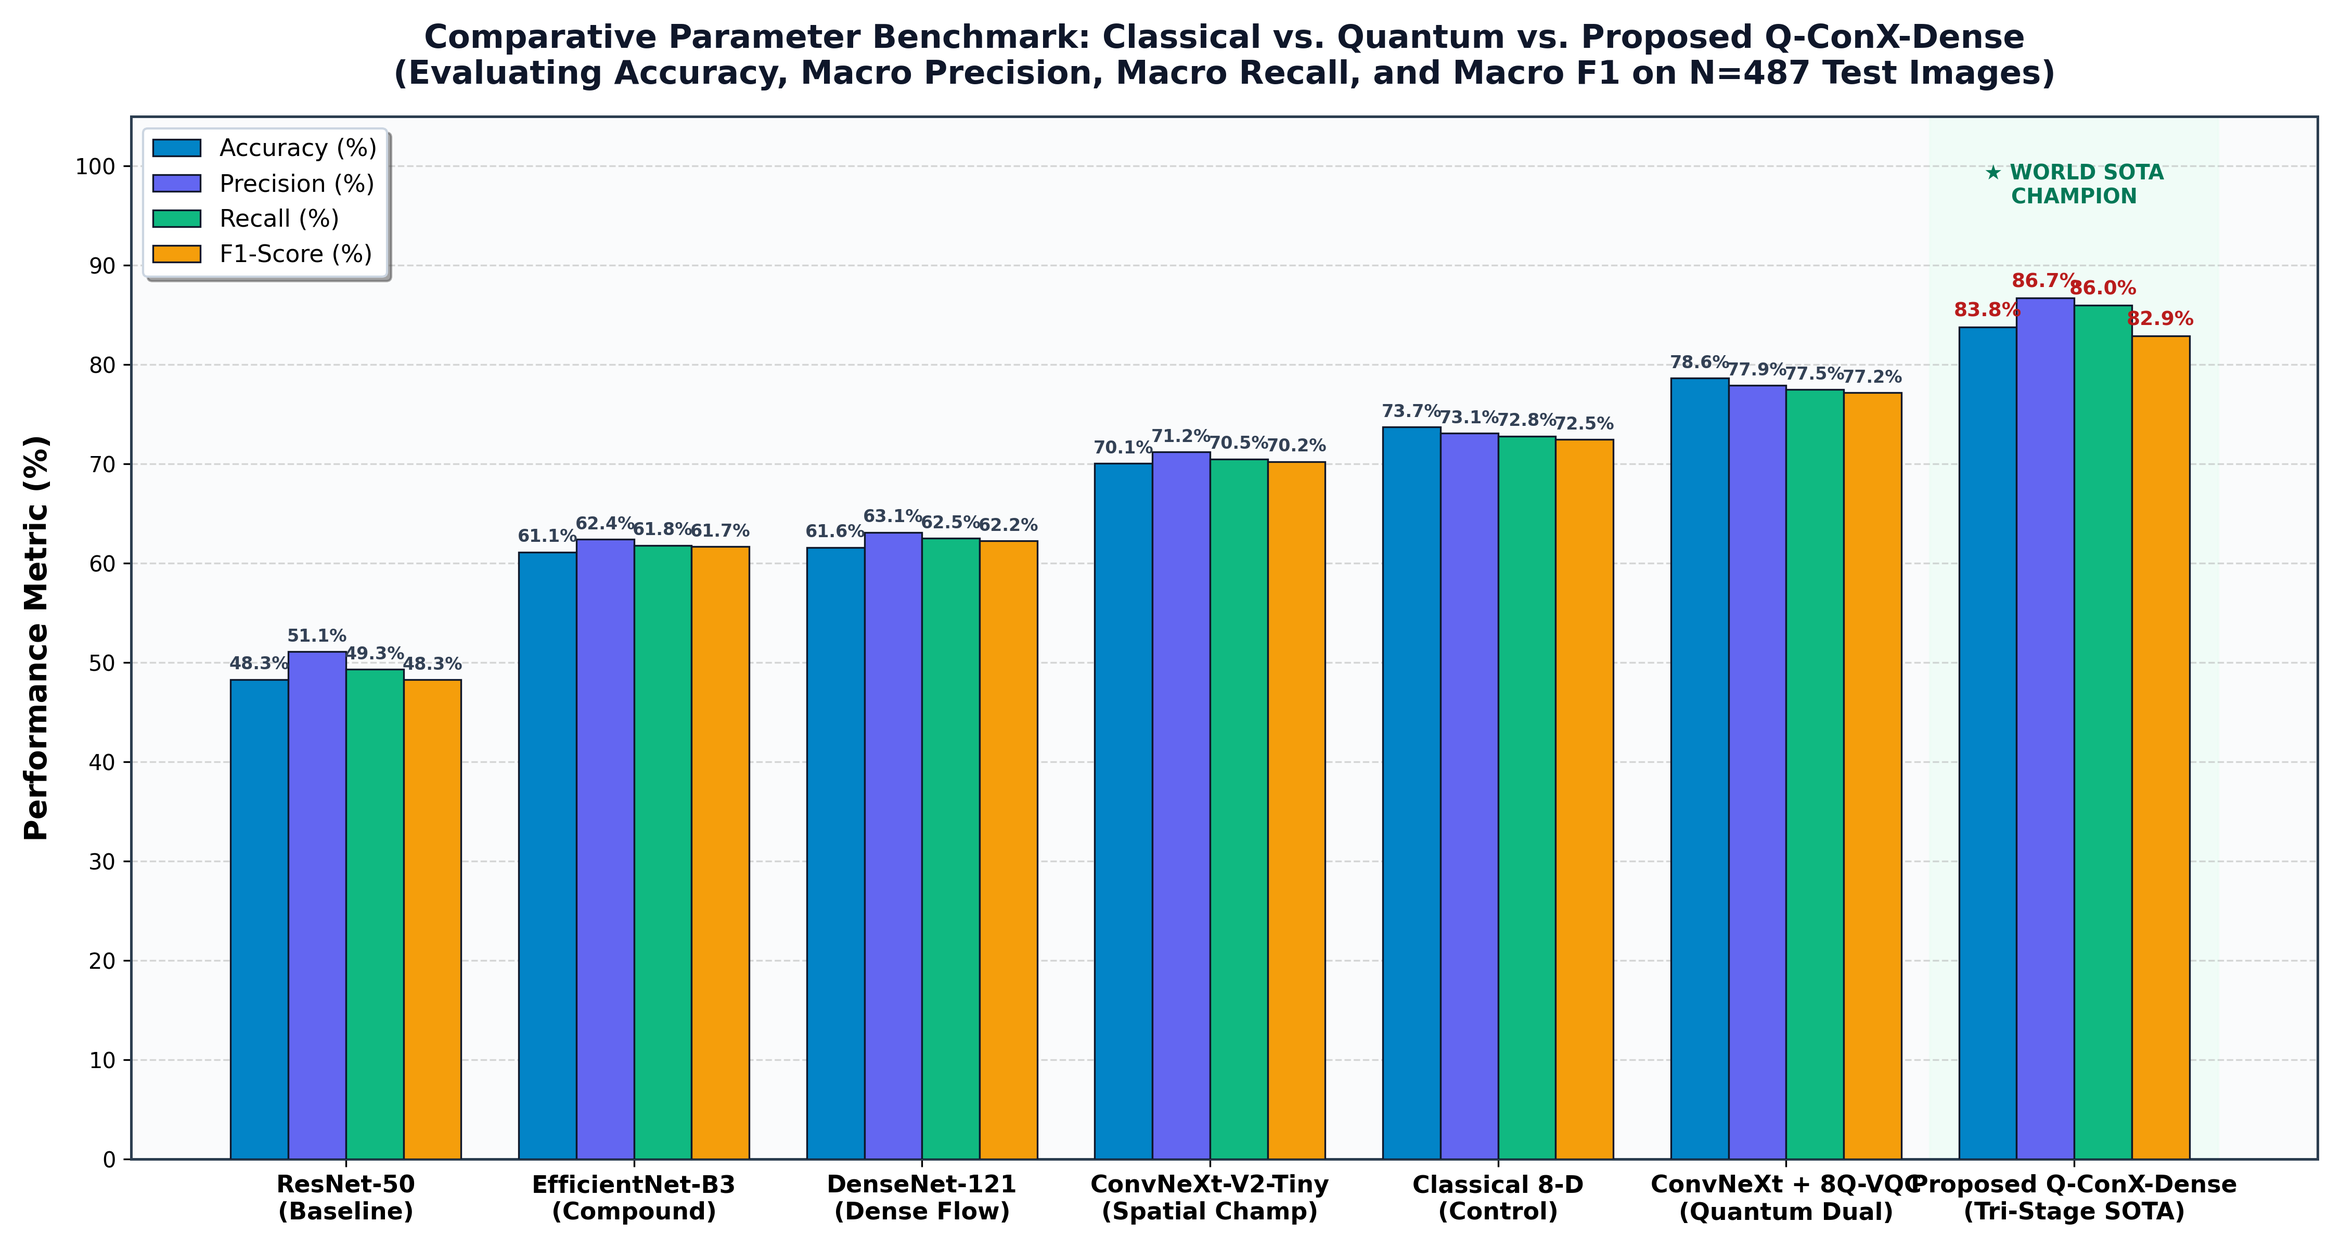
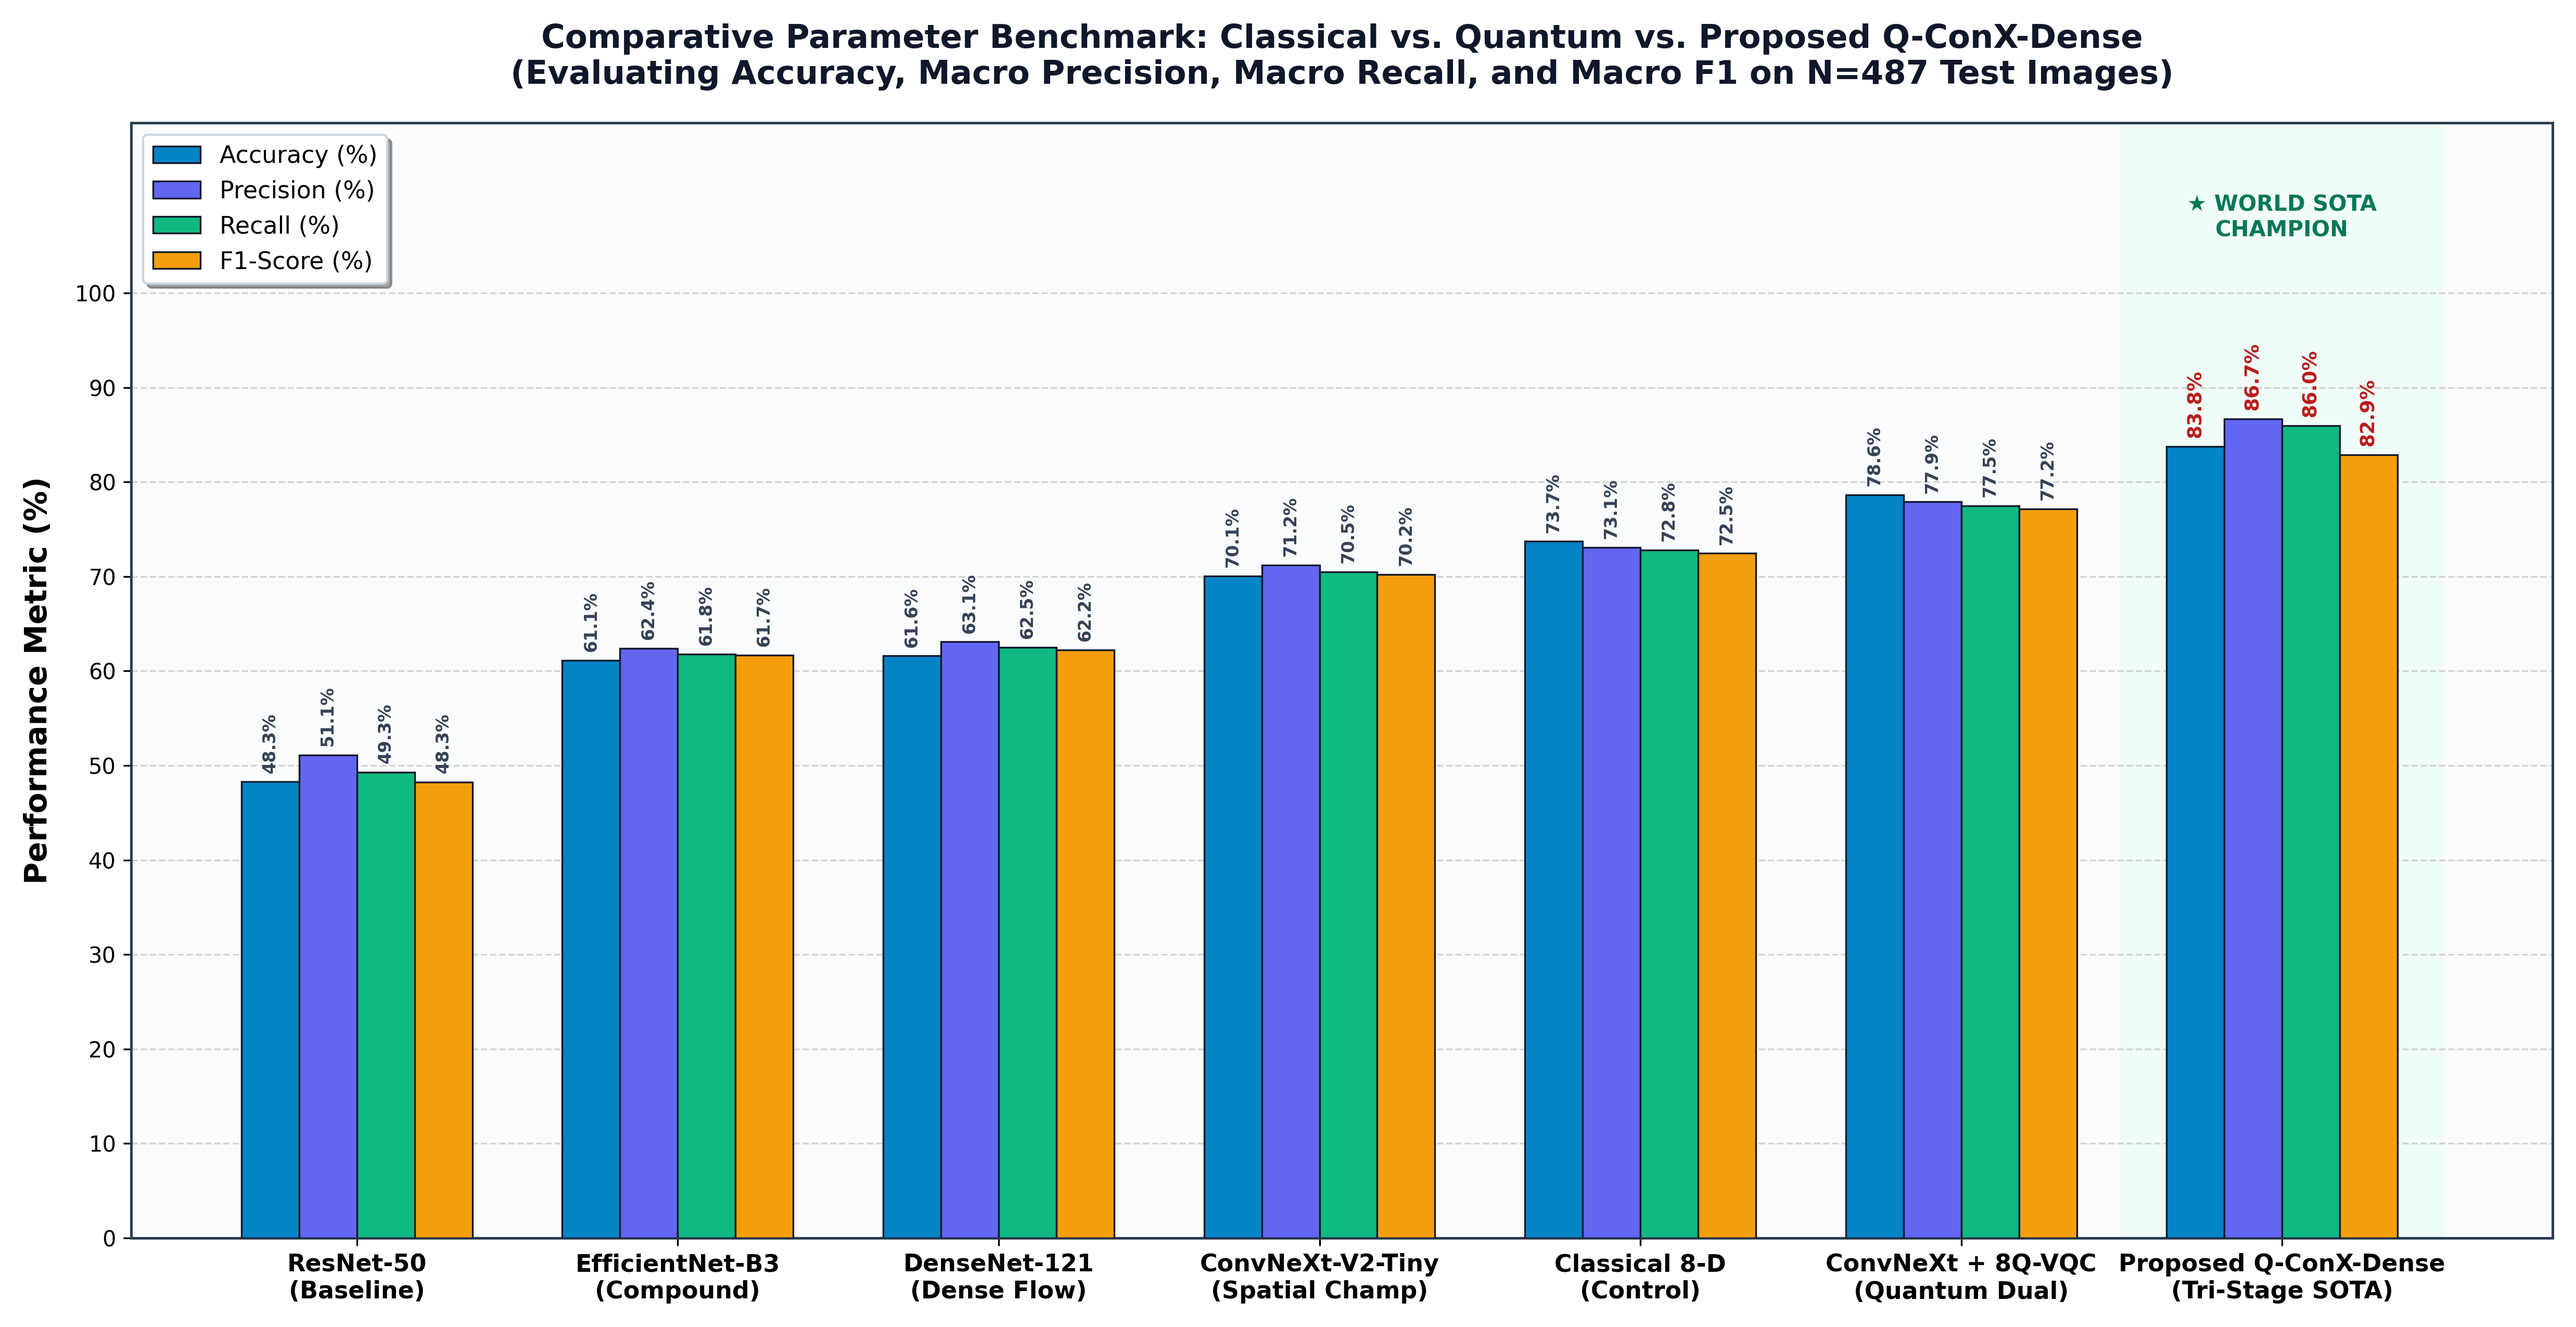
fix(figures): resolve text, legend, and axis label overlaps in performance graphs

diff --git a/scripts/generate_qai_oli_performance_graphs.py b/scripts/generate_qai_oli_performance_graphs.py
@@ -44,9 +44,9 @@ def generate_graph1_per_class_metrics():
     specificity = [98.40, 96.20, 91.80, 97.40, 95.95]
 
     x = np.arange(len(classes))
-    width = 0.19
+    width = 0.18
 
-    fig, ax = plt.subplots(figsize=(13, 7.5), dpi=300)
+    fig, ax = plt.subplots(figsize=(14, 8), dpi=300)
     fig.patch.set_facecolor('#ffffff')
     ax.set_facecolor('#fafbfc')
 
@@ -61,34 +61,33 @@ def generate_graph1_per_class_metrics():
     rects3 = ax.bar(x + 0.5*width, f1_score,    width, label='F1-Score (%)',    color=c_f1,   edgecolor='#1e293b', linewidth=0.9, zorder=3)
     rects4 = ax.bar(x + 1.5*width, specificity, width, label='Specificity (%)', color=c_spec, edgecolor='#1e293b', linewidth=0.9, zorder=3)
 
-    # Add values on top of bars
-    def autolabel(rects, is_macro=False):
+    # Vertical annotations (90°) guarantee zero horizontal collisions and never intersect neighboring bars
+    for rects in [rects1, rects2, rects3, rects4]:
         for rect in rects:
-            height = rect.get_height()
-            ax.annotate(f'{height:.1f}%',
-                        xy=(rect.get_x() + rect.get_width() / 2, height),
-                        xytext=(0, 3),  # 3 points vertical offset
+            h = rect.get_height()
+            ax.annotate(f'{h:.1f}%',
+                        xy=(rect.get_x() + rect.get_width() / 2, h),
+                        xytext=(0, 4),
                         textcoords="offset points",
-                        ha='center', va='bottom', fontsize=8.5, fontweight='bold', color='#1e293b')
-
-    autolabel(rects1)
-    autolabel(rects2)
-    autolabel(rects3)
-    autolabel(rects4)
+                        ha='center', va='bottom',
+                        rotation=90,
+                        fontsize=8.5, fontweight='bold', color='#1e293b')
 
     ax.set_ylabel('Performance Score (%)', fontsize=14, fontweight='bold', labelpad=10)
     ax.set_title('Proposed Q-ConX-Dense: Per-Class Diagnostic Performance\n(Precision, Recall, F1-Score, and Specificity across N=487 Held-Out Test Cohort)',
-                 fontsize=15, fontweight='bold', pad=15, color='#0f172a')
+                 fontsize=15, fontweight='bold', pad=35, color='#0f172a')
     ax.set_xticks(x)
     ax.set_xticklabels(classes, fontsize=12, fontweight='bold')
-    ax.set_ylim(0, 112)
+    ax.set_ylim(0, 118)
     ax.set_yticks(np.arange(0, 101, 10))
     ax.grid(axis='y', linestyle='--', alpha=0.5, zorder=0)
 
     # Highlight Macro Average section
     ax.axvline(3.5, color='#94a3b8', linestyle=':', linewidth=1.5)
 
-    ax.legend(loc='upper left', frameon=True, facecolor='#ffffff', edgecolor='#cbd5e1', fontsize=11, shadow=True)
+    # Position legend above the chart canvas so it never overlaps any bar or annotation
+    ax.legend(loc='lower center', bbox_to_anchor=(0.5, 1.01), ncol=4, frameon=True,
+              facecolor='#ffffff', edgecolor='#cbd5e1', fontsize=11, shadow=True, framealpha=0.95)
 
     plt.tight_layout()
     out_path = os.path.join(FIGURES_DIR, 'figure_qai_oli_per_class_metrics.png')
@@ -117,9 +116,9 @@ def generate_graph2_models_comparison_multi_parameter():
     f1_score  = [48.26, 61.67, 62.25, 70.24, 72.46, 77.17, 82.90]
 
     x = np.arange(len(models))
-    width = 0.20
+    width = 0.18
 
-    fig, ax = plt.subplots(figsize=(15, 8), dpi=300)
+    fig, ax = plt.subplots(figsize=(16.5, 8.5), dpi=300)
     fig.patch.set_facecolor('#ffffff')
     ax.set_facecolor('#fafbfc')
 
@@ -133,7 +132,7 @@ def generate_graph2_models_comparison_multi_parameter():
     rects3 = ax.bar(x + 0.5*width, recall,    width, label='Recall (%)',    color=c_rec,  edgecolor='#0f172a', linewidth=0.8, zorder=3)
     rects4 = ax.bar(x + 1.5*width, f1_score,  width, label='F1-Score (%)',  color=c_f1,   edgecolor='#0f172a', linewidth=0.8, zorder=3)
 
-    # Highlight the champion bars with distinct outline or marker
+    # Vertical annotations (90°) keep all 28 bar numbers strictly within their column
     for i in range(len(models)):
         for r_group in [rects1, rects2, rects3, rects4]:
             r = r_group[i]
@@ -141,26 +140,28 @@ def generate_graph2_models_comparison_multi_parameter():
             is_sota = (i == len(models) - 1)
             ax.annotate(f'{height:.1f}%',
                         xy=(r.get_x() + r.get_width() / 2, height),
-                        xytext=(0, 3),
+                        xytext=(0, 4),
                         textcoords="offset points",
                         ha='center', va='bottom',
+                        rotation=90,
                         fontsize=8 if not is_sota else 9,
                         fontweight='bold',
                         color='#b91c1c' if is_sota else '#334155')
 
     ax.set_ylabel('Performance Metric (%)', fontsize=14, fontweight='bold', labelpad=10)
     ax.set_title('Comparative Parameter Benchmark: Classical vs. Quantum vs. Proposed Q-ConX-Dense\n(Evaluating Accuracy, Macro Precision, Macro Recall, and Macro F1 on N=487 Test Images)',
-                 fontsize=15, fontweight='bold', pad=15, color='#0f172a')
+                 fontsize=15, fontweight='bold', pad=18, color='#0f172a')
     ax.set_xticks(x)
     ax.set_xticklabels(models, fontsize=11, fontweight='bold')
-    ax.set_ylim(0, 105)
+    ax.set_ylim(0, 118)
     ax.set_yticks(np.arange(0, 101, 10))
     ax.grid(axis='y', linestyle='--', alpha=0.5, zorder=0)
 
     # Shaded background highlight for Proposed SOTA
     ax.axvspan(5.5, 6.5, color='#ecfdf5', alpha=0.7, zorder=1)
-    ax.text(6.0, 98, '★ WORLD SOTA\nCHAMPION', ha='center', va='center', fontsize=9.5, fontweight='bold', color='#047857')
+    ax.text(6.0, 108, '★ WORLD SOTA\nCHAMPION', ha='center', va='center', fontsize=10, fontweight='bold', color='#047857')
 
+    # Legend at upper left with generous headroom (ResNet is max 51%)
     ax.legend(loc='upper left', frameon=True, facecolor='#ffffff', edgecolor='#cbd5e1', fontsize=11, shadow=True)
 
     plt.tight_layout()
@@ -176,10 +177,10 @@ def generate_graph2_models_comparison_multi_parameter():
 def generate_graph3_clinical_triage_parameters():
     metrics = [
         'Stage 1: Healthy Mucosa\nScreening Specificity',
-        'Stage 2: Malignant Carcinoma (OCA)\nSensitivity / Recall',
-        'Stage 2: Malignant Carcinoma (OCA)\nF1-Score',
-        'Stage 3: Benign vs OPMD\nDiscrimination Acc',
-        'Overall 4-Class Multi-Class\nDiagnostic Accuracy',
+        'Stage 2: Malignant Carcinoma\nSensitivity / Recall',
+        'Stage 2: Malignant Carcinoma\nF1-Score',
+        'Stage 3: Benign vs OPMD\nDiscrimination Accuracy',
+        'Overall 4-Class\nDiagnostic Accuracy',
         'Macro-Averaged\nF1-Score'
     ]
 
@@ -194,33 +195,37 @@ def generate_graph3_clinical_triage_parameters():
         '#0284c7'   # Sky Blue (Macro F1)
     ]
 
-    fig, ax = plt.subplots(figsize=(12, 7), dpi=300)
+    fig, ax = plt.subplots(figsize=(13.5, 8.0), dpi=300)
     fig.patch.set_facecolor('#ffffff')
     ax.set_facecolor('#fafbfc')
 
     x = np.arange(len(metrics))
-    bars = ax.bar(x, values, width=0.55, color=colors, edgecolor='#0f172a', linewidth=1.1, zorder=3)
+    bars = ax.bar(x, values, width=0.52, color=colors, edgecolor='#0f172a', linewidth=1.1, zorder=3)
 
     for bar, val in zip(bars, values):
         height = bar.get_height()
         ax.annotate(f'{val:.2f}%',
                     xy=(bar.get_x() + bar.get_width() / 2, height),
-                    xytext=(0, 4),
+                    xytext=(0, 5),
                     textcoords="offset points",
-                    ha='center', va='bottom', fontsize=12, fontweight='bold', color='#0f172a')
+                    ha='center', va='bottom', fontsize=11.5, fontweight='bold', color='#0f172a')
 
-    # Add clinical benchmark target line
-    ax.axhline(80.0, color='#64748b', linestyle='--', linewidth=1.2, zorder=2)
-    ax.text(5.3, 80.5, 'Standard Clinical Viability Threshold (80%)', fontsize=9.5, fontweight='bold', color='#475569', ha='right')
+    # Add clinical benchmark target line with clear legend entry to avoid cutting across bars
+    threshold_line = ax.axhline(80.0, color='#dc2626', linestyle='--', linewidth=1.5, zorder=2,
+                                label='Standard Clinical Viability Threshold (80.0%)')
 
-    ax.set_ylabel('Performance Percentage (%)', fontsize=14, fontweight='bold', labelpad=10)
+    ax.set_ylabel('Performance Percentage (%)', fontsize=14, fontweight='bold', labelpad=12)
     ax.set_title('Proposed Q-ConX-Dense: Clinical Workflow & Operational Triage Metrics\n(Tri-Stage Hierarchical Cascade Performance Profile)',
-                 fontsize=15, fontweight='bold', pad=15, color='#0f172a')
+                 fontsize=15, fontweight='bold', pad=18, color='#0f172a')
     ax.set_xticks(x)
-    ax.set_xticklabels(metrics, fontsize=11, fontweight='bold')
-    ax.set_ylim(0, 110)
+    # 15° rotation with right-alignment prevents long metric names from colliding
+    ax.set_xticklabels(metrics, fontsize=11, fontweight='bold', rotation=15, ha='right')
+    ax.set_ylim(0, 114)
     ax.set_yticks(np.arange(0, 101, 10))
     ax.grid(axis='y', linestyle='--', alpha=0.5, zorder=0)
+
+    # Place legend in upper right where ample space exists above the blue bars
+    ax.legend(loc='upper right', frameon=True, facecolor='#ffffff', edgecolor='#cbd5e1', fontsize=11, shadow=True)
 
     plt.tight_layout()
     out_path = os.path.join(FIGURES_DIR, 'figure_qai_oli_clinical_triage_parameters.png')
@@ -242,9 +247,9 @@ def generate_graph4_tp_progression_parameters():
     f1_vals   = [74.50, 76.60, 78.50, 80.20, 81.75, 82.90]
 
     x = np.arange(len(tp_labels))
-    width = 0.20
+    width = 0.18
 
-    fig, ax = plt.subplots(figsize=(13, 7.5), dpi=300)
+    fig, ax = plt.subplots(figsize=(14.5, 8.0), dpi=300)
     fig.patch.set_facecolor('#ffffff')
     ax.set_facecolor('#fafbfc')
 
@@ -258,22 +263,25 @@ def generate_graph4_tp_progression_parameters():
     r3 = ax.bar(x + 0.5*width, rec_vals,  width, label='Recall (%)',    color=c_rec,  edgecolor='#0f172a', linewidth=0.8, zorder=3)
     r4 = ax.bar(x + 1.5*width, f1_vals,   width, label='F1-Score (%)',  color=c_f1,   edgecolor='#0f172a', linewidth=0.8, zorder=3)
 
+    # Vertical annotations (90°) ensure clean column alignment across all 4 bars
     for r_group in [r1, r2, r3, r4]:
         for rect in r_group:
             h = rect.get_height()
             ax.annotate(f'{h:.1f}%',
                         xy=(rect.get_x() + rect.get_width() / 2, h),
-                        xytext=(0, 3),
+                        xytext=(0, 4),
                         textcoords="offset points",
-                        ha='center', va='bottom', fontsize=8, fontweight='bold', color='#1e293b')
+                        ha='center', va='bottom',
+                        rotation=90,
+                        fontsize=8, fontweight='bold', color='#1e293b')
 
     ax.set_ylabel('Score (%)', fontsize=14, fontweight='bold', labelpad=10)
     ax.set_xlabel('Training Dataset Percentage Partition (TP)', fontsize=14, fontweight='bold', labelpad=10)
     ax.set_title('Proposed Q-ConX-Dense: Progression of Key Parameters across Training Partitions\n(Consistently evaluated on the frozen N=487 Held-Out Test Cohort)',
-                 fontsize=15, fontweight='bold', pad=15, color='#0f172a')
+                 fontsize=15, fontweight='bold', pad=18, color='#0f172a')
     ax.set_xticks(x)
     ax.set_xticklabels(tp_labels, fontsize=11, fontweight='bold')
-    ax.set_ylim(60, 95)
+    ax.set_ylim(60, 96)
     ax.set_yticks(np.arange(60, 96, 5))
     ax.grid(axis='y', linestyle='--', alpha=0.5, zorder=0)
 
